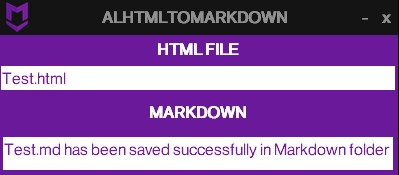
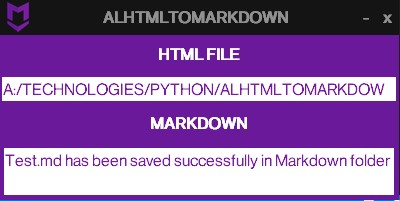
AlHtmlToMarkdown

Changed region(s): [[0.0, 0.0, 1.0, 1.0], [0.2406, 0.0286, 0.7218, 0.1429], [0.3609, 0.5714, 0.6316, 0.6857]]

diff --git a/AlHtmlToMarkdown.py b/AlHtmlToMarkdown.py
@@ -1,7 +1,7 @@
 import markdownify
 import os
 from tkinter import*
-from tkinter import font
+from tkinter import font, filedialog
 from PIL import ImageTk, Image
 
 cwd = os.path.dirname(os.path.realpath(__file__))
@@ -11,7 +11,7 @@ class AlHtmlToMarkdown():
     
     def __init__(self):
         root = Tk(className = " ALHTMLTOMARKDOWN ")
-        root.geometry("400x175+1500+840")
+        root.geometry("400x200+1500+815")
         root.resizable(0,0)
         root.iconbitmap(os.path.join(cwd+'\\UI\\icons', 'alhtmltomarkdown.ico'))
         root.config(bg="#6a199b")
@@ -32,9 +32,14 @@ class AlHtmlToMarkdown():
             root.overrideredirect(0)
             root.iconify()
 
+        def openHtml():
+            fileTextEntry.delete(1.0, END)
+            filename = filedialog.askopenfilename(filetypes =[('HTML Files', '*.html')])
+            fileTextEntry.insert(1.0, filename)
+
         def markdown():
-            filename = fileText.get()
-            filepath = os.path.join(cwd+'\\AlHtmlToMarkdown', filename)
+            filepath = fileTextEntry.get("1.0", END)
+            filepath = filepath.replace('/', '\\')[:-1]
             if os.path.exists(filepath):
                 extension = os.path.splitext(filepath)[1]
                 try:
@@ -43,7 +48,8 @@ class AlHtmlToMarkdown():
                         html = htmlFile.read()
                         htmlFile.close()
                         markDown = markdownify.markdownify(html, heading_style="ATX")
-                        markdownFileName = filename.replace(extension,'.md')
+                        markdownFileName = os.path.basename(filepath)
+                        markdownFileName = markdownFileName.replace(extension,'.md')
                         markdownFilePath = os.path.join(cwd+'\\AlHtmlToMarkdown\\Markdown', markdownFileName)
                         markdownFile = open(markdownFilePath, "w")
                         markdownFile.writelines(markDown)
@@ -84,11 +90,11 @@ class AlHtmlToMarkdown():
         titleBar.pack(fill=X)
 
         #file widget
-        fileText = Label(root, text="HTML FILE")
-        fileText.pack()
-        fileText.config(bg=color,fg="white",font=appHighlightFont)
-        fileText= Entry(root, bg="white", fg='#7a1da3', highlightbackground=color, highlightcolor=color, highlightthickness=3, bd=0,font=textHighlightFont)
+        fileText = Button(root, text="HTML FILE", borderwidth=0, highlightthickness=3, command=openHtml)
         fileText.pack(fill=X)
+        fileText.config(bg=color,fg="white",font=appHighlightFont)
+        fileTextEntry = Text(root, bg="white", fg='#7a1da3', highlightbackground=color, highlightcolor=color, highlightthickness=3, bd=0,font=textHighlightFont, height=1)
+        fileTextEntry.pack(fill=BOTH, expand=True)
 
         #convert button
         convertToMarkdown = Button(root, borderwidth=0, highlightthickness=3, text="MARKDOWN", command=markdown)

diff --git a/README.md b/README.md
@@ -15,5 +15,5 @@ pip install Pillow
 
 ![](/CaptureMarkdown.jpg)
 
-1. Provide the input as given in above image.
+1. Click on HTML FILE button and then select the html file.
 2. Then, click on MARKDOWN button.
